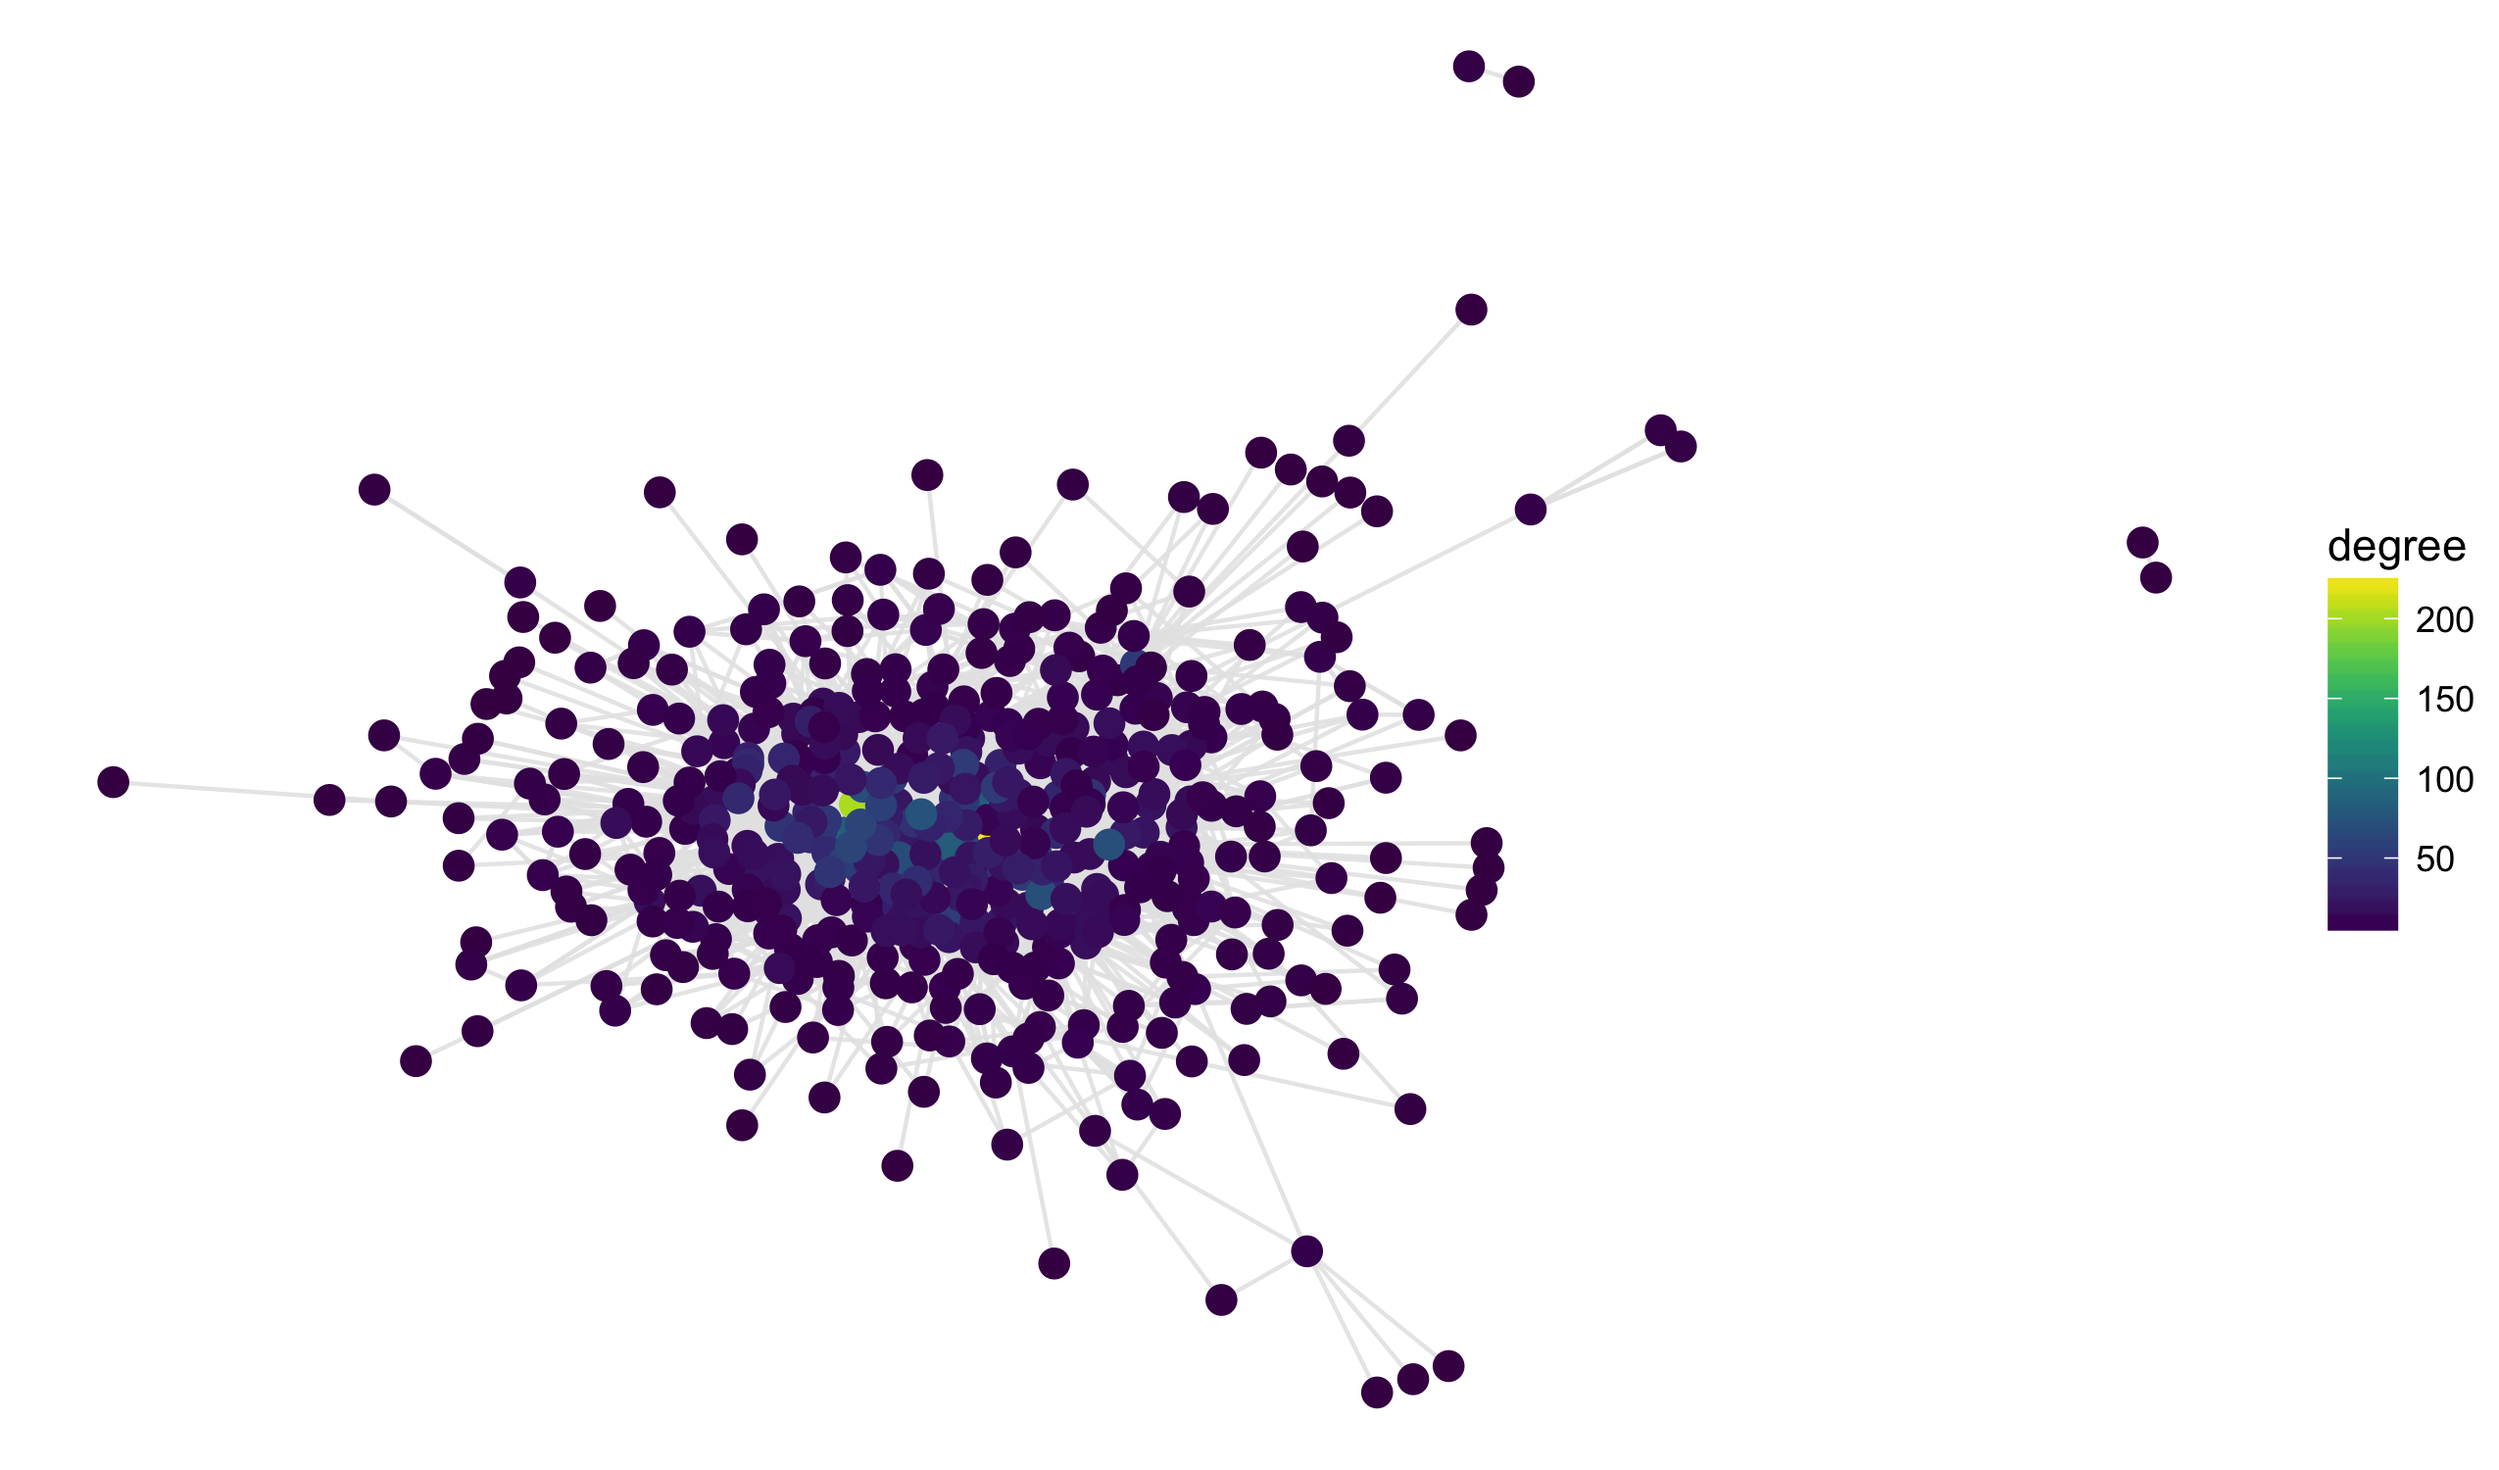
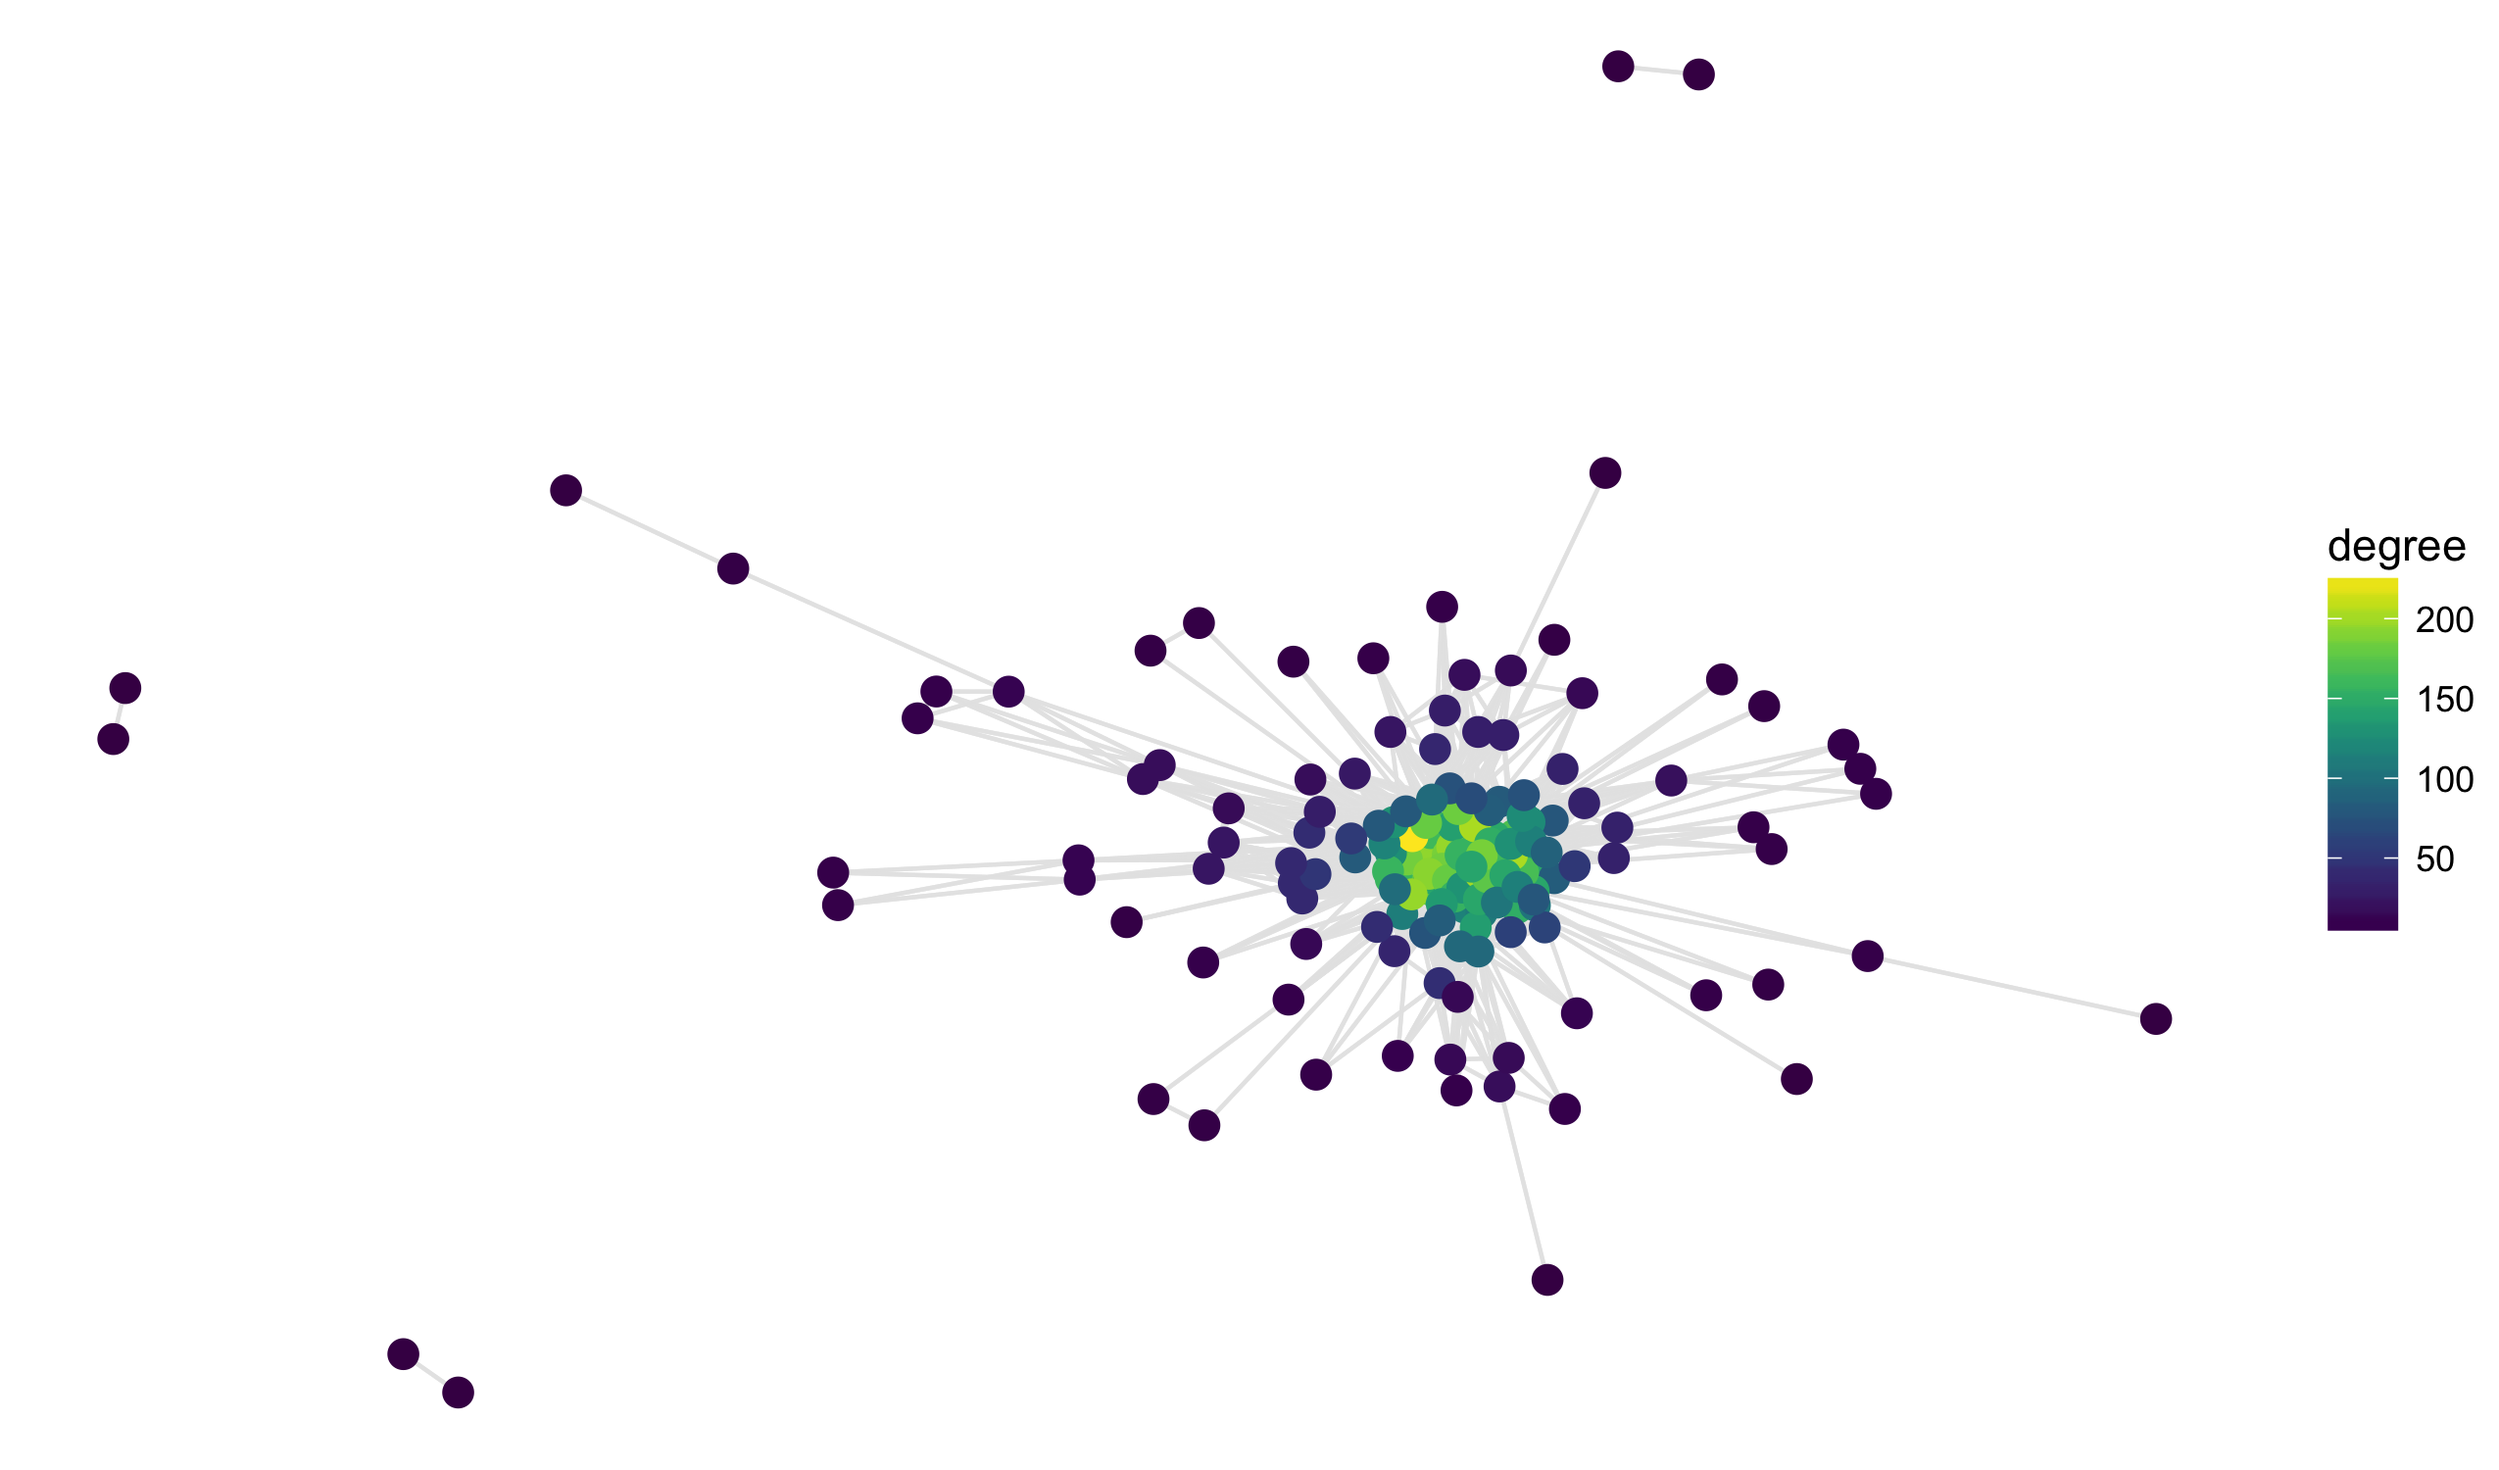
update lab

diff --git a/_posts/2017-11-16-class23.md b/_posts/2017-11-16-class23.md
@@ -13,6 +13,8 @@ library(dplyr)
 library(ggplot2)
 library(viridis)
 library(stringi)
+library(Matrix)
+library(methods)
 {% endhighlight %}
 
 ![](../assets/img/data_pipeline_transform.png)
@@ -660,7 +662,7 @@ write_rds(edges, "../assets/data/wiki_link_edges.rds")
 
 
 This can take a little time, so I included a counter that prints out the progress of the
-algorithm. 
+algorithm.
 
 Notice that many of the links on these 538 pages are to other pages to in our set. On
 average only 6% of the links are in our collection:
@@ -763,7 +765,7 @@ arrange(gr$nodes, desc(eigen))$id[1:25]
 ## [25] "Jamestown,_Virginia"
 {% endhighlight %}
 
-What do you notice about the most central pages? Remember, Richmond is **not** included in 
+What do you notice about the most central pages? Remember, Richmond is **not** included in
 the set, so it is not surprising that it's missing.
 
 Plotting eigenvalue and betweenness scores, we see that VCU and "Geographic Coordinate System"
@@ -969,8 +971,8 @@ The eigenvalue scores are certainly correlated, but not a perfect copy of one an
 {% highlight r %}
 ggplot(nodes, aes(eigen, eigen_co)) +
   geom_point() +
-  geom_abline(slope = 1, intercept = 0) + 
-  theme_minimal() 
+  geom_abline(slope = 1, intercept = 0) +
+  theme_minimal()
 {% endhighlight %}
 
 
@@ -1077,50 +1079,30 @@ library(tokenizers)
 token_list <- tokenize_words(df$text)
 token_df <- term_list_to_df(token_list)
 X <- term_df_to_matrix(token_df, scale = TRUE, min_df = 0.1, max_df = 0.9)
-{% endhighlight %}
-
-
-
-{% highlight text %}
-## Error in validObject(.Object): invalid class "dgTMatrix" object: Not a valid 'Mnumeric' class object
-{% endhighlight %}
-
-
-
-{% highlight r %}
 d <- as.matrix(dist(X))
-{% endhighlight %}
-
-
-
-{% highlight text %}
-## Error in as.matrix(x): object 'X' not found
-{% endhighlight %}
-
-
-
-{% highlight r %}
 d <- data_frame(dist = as.numeric(d),
                 row = as.integer(row(d)),
                 col = as.integer(col(d)))
-{% endhighlight %}
-
-
-
-{% highlight text %}
-## Error in overscope_eval_next(overscope, expr): object 'd' not found
-{% endhighlight %}
-
-
-
-{% highlight r %}
 d
 {% endhighlight %}
 
 
 
 {% highlight text %}
-## Error in eval(expr, envir, enclos): object 'd' not found
+## # A tibble: 46,225 x 3
+##          dist   row   col
+##         <dbl> <int> <int>
+##  1 0.00000000     1     1
+##  2 0.14772701     2     1
+##  3 0.13748189     3     1
+##  4 0.12921302     4     1
+##  5 0.10425901     5     1
+##  6 0.09102865     6     1
+##  7 0.08635729     7     1
+##  8 0.14550444     8     1
+##  9 0.09114820     9     1
+## 10 0.11999107    10     1
+## # ... with 46,215 more rows
 {% endhighlight %}
 
 Then, I'll create an edge list by including only those documents that are a distance
@@ -1129,60 +1111,10 @@ of 45 away from each other (I selected this cut-off by trial and error):
 
 {% highlight r %}
 el <- filter(d, row != col)
-{% endhighlight %}
-
-
-
-{% highlight text %}
-## Error in filter(d, row != col): object 'd' not found
-{% endhighlight %}
-
-
-
-{% highlight r %}
 el <- filter(el, dist < 0.1)
-{% endhighlight %}
-
-
-
-{% highlight text %}
-## Error in UseMethod("filter_"): no applicable method for 'filter_' applied to an object of class "c('matrix', 'character')"
-{% endhighlight %}
-
-
-
-{% highlight r %}
 el <- data_frame(id = df$pages[el$row], id_out = df$pages[el$col])
-{% endhighlight %}
-
-
-
-{% highlight text %}
-## Error in el$row: $ operator is invalid for atomic vectors
-{% endhighlight %}
-
-
-
-{% highlight r %}
 el$id <- stri_sub(el$id, 7, -1)
-{% endhighlight %}
-
-
-
-{% highlight text %}
-## Error in el$id: $ operator is invalid for atomic vectors
-{% endhighlight %}
-
-
-
-{% highlight r %}
 el$id_out <- stri_sub(el$id_out, 7, -1)
-{% endhighlight %}
-
-
-
-{% highlight text %}
-## Error in el$id_out: $ operator is invalid for atomic vectors
 {% endhighlight %}
 
 And you can see that the resulting graph is very centered on a tight clustering of documents:
@@ -1190,17 +1122,7 @@ And you can see that the resulting graph is very centered on a tight clustering 
 
 {% highlight r %}
 gr <- graph_data(el)
-{% endhighlight %}
 
-
-
-{% highlight text %}
-## Error in cbind_all(x): Argument 1 must have names
-{% endhighlight %}
-
-
-
-{% highlight r %}
 ggplot(gr$nodes, aes(x, y, label = id)) +
   geom_segment(aes(xend = xend, yend = yend), data = gr$edges,
                color = grey(0.9), alpha = 0.9) +
@@ -1217,60 +1139,10 @@ to the closest 3 pages:
 
 {% highlight r %}
 el <- filter(d, row != col)
-{% endhighlight %}
-
-
-
-{% highlight text %}
-## Error in filter(d, row != col): object 'd' not found
-{% endhighlight %}
-
-
-
-{% highlight r %}
 el <- filter(group_by(el, row), dist <= sort(dist)[3])
-{% endhighlight %}
-
-
-
-{% highlight text %}
-## Error in UseMethod("group_by_"): no applicable method for 'group_by_' applied to an object of class "c('matrix', 'character')"
-{% endhighlight %}
-
-
-
-{% highlight r %}
 el <- data_frame(id = df$pages[el$row], id_out = df$pages[el$col])
-{% endhighlight %}
-
-
-
-{% highlight text %}
-## Error in el$row: $ operator is invalid for atomic vectors
-{% endhighlight %}
-
-
-
-{% highlight r %}
 el$id <- stri_sub(el$id, 7, -1)
-{% endhighlight %}
-
-
-
-{% highlight text %}
-## Error in el$id: $ operator is invalid for atomic vectors
-{% endhighlight %}
-
-
-
-{% highlight r %}
 el$id_out <- stri_sub(el$id_out, 7, -1)
-{% endhighlight %}
-
-
-
-{% highlight text %}
-## Error in el$id_out: $ operator is invalid for atomic vectors
 {% endhighlight %}
 
 This graph looks quite a bit more interesting and spread out:
@@ -1278,17 +1150,7 @@ This graph looks quite a bit more interesting and spread out:
 
 {% highlight r %}
 gr <- graph_data(el)
-{% endhighlight %}
 
-
-
-{% highlight text %}
-## Error in cbind_all(x): Argument 1 must have names
-{% endhighlight %}
-
-
-
-{% highlight r %}
 ggplot(gr$nodes, aes(x, y, label = id)) +
   geom_segment(aes(xend = xend, yend = yend), data = gr$edges,
                color = grey(0.9), alpha = 0.9) +
@@ -1316,70 +1178,67 @@ split(temp$id, temp$cluster)
 
 {% highlight text %}
 ## $`1`
-## [1] "George_B._McClellan"           "Ulysses_S._Grant"             
-## [3] "Abraham_Lincoln"               "Confederate_States_of_America"
-## [5] "American_Civil_War"           
+## [1] "Integer_(computer_science)" "Longitude"                 
+## [3] "Temperature"                "Level_of_measurement"      
+## [5] "Central_tendency"          
 ## 
 ## $`10`
-## [1] "Science_Museum_of_Virginia"      "Broad_Street_Station_(Richmond)"
-## [3] "Fan_district"                    "Monument_Avenue"                
-## [5] "Neoclassical_architecture"      
+## [1] "UMVUE"                "Consistent_estimator" "Estimator"           
+## [4] "Mean_squared_error"   "Unbiased_estimator"  
 ## 
-## $`14`
-## [1] "Geographic_coordinate_system"   "Virginia_General_Assembly"     
-## [3] "George_Washington"              "President_of_the_United_States"
-## [5] "Thomas_Jefferson"              
+## $`11`
+## [1] "Null_hypothesis"                "Hypothesis_testing"            
+## [3] "Critical_region"                "Statistical_hypothesis_testing"
+## [5] "Test_statistic"                
 ## 
-## $`16`
-## [1] "Minor_League_Baseball"            "Richmond_Braves"                 
-## [3] "San_Francisco_Giants"             "Richmond_Flying_Squirrels"       
-## [5] "The_Diamond_(Richmond,_Virginia)"
-## 
-## $`17`
-## [1] "Bus"                            "Paratransit"                   
-## [3] "Tram"                           "Streetcar"                     
-## [5] "Main_Street_Station_(Richmond)"
+## $`12`
+## [1] "Statistical_model"      "Statistical_theory"    
+## [3] "Bayesian_probability"   "Inferential_statistics"
+## [5] "Statistical_inference" 
 ## 
 ## $`2`
-## [1] "Country_music"                   "Korean_War"                     
-## [3] "Gulf_War"                        "Federal_Bureau_of_Investigation"
-## [5] "Blues"                          
-## 
-## $`23`
-## [1] "Capital_One_Financial_Corporation" "CarMax"                           
-## [3] "Owens_%26_Minor"                   "Dominion_Resources"               
-## [5] "Fortune_500"                      
-## 
-## $`27`
-## [1] "Microbrewery"     "Daniel_Day-Lewis" "ROA_(artist)"    
-## [4] "Hinduism"         "England"         
+## [1] "Blaise_Pascal"         "Karl_Pearson"          "Ronald_Fisher"        
+## [4] "Francis_Galton"        "History_of_statistics"
 ## 
 ## $`3`
-## [1] "National_Football_League"      "American_Broadcasting_Company"
-## [3] "Fox_Broadcasting_Company"      "NBC"                          
-## [5] "Southeastern_United_States"   
+## [1] "Maximum_likelihood"         "Sampling_(statistics)"     
+## [3] "Random_sample"              "Resampling_(statistics)"   
+## [5] "Bootstrapping_(statistics)"
 ## 
-## $`32`
-## [1] "Southside_Speedway"               "Monster_Energy"                  
-## [3] "Denny_Hamlin"                     "Monster_Energy_NASCAR_Cup_Series"
-## [5] "NASCAR"                          
+## $`4`
+## [1] "Neural_networks"       "Forecasting"           "Spatial_data_analysis"
+## [4] "Evolution"             "Census"               
 ## 
 ## $`5`
-## [1] "Chesterfield_County,_Virginia" "James_River_(Virginia)"       
-## [3] "Jamestown,_Virginia"           "Petersburg,_Virginia"         
-## [5] "Virginia"                     
+## [1] "Hawthorne_study"             "Hawthorne_effect"           
+## [3] "Categorical_data"            "Categorical_variable"       
+## [5] "Randomized_controlled_trial"
+## 
+## $`6`
+## [1] "Least_squares"                     
+## [2] "Method_of_least_squares"           
+## [3] "Errors_and_residuals_in_statistics"
+## [4] "Linear_regression"                 
+## [5] "Ordinary_least_squares"            
 ## 
 ## $`7`
-## [1] "Medical_College_of_Virginia"      "VCU"                             
-## [3] "Atlantic_10_Conference"           "University_of_Richmond"          
-## [5] "Virginia_Commonwealth_University"
+## [1] "Social_science"          "Sociology"              
+## [3] "Computational_biology"   "Computational_sociology"
+## [5] "Network_biology"        
+## 
+## $`8`
+## [1] "Biostatistics"                       
+## [2] "Causality"                           
+## [3] "Instrumental_variable"               
+## [4] "Correlation_does_not_imply_causation"
+## [5] "Misuse_of_statistics"                
 ## 
 ## $`9`
-## [1] "Native_Americans_in_the_United_States"
-## [2] "African_American"                     
-## [3] "Southern_United_States"               
-## [4] "Washington,_D.C."                     
-## [5] "United_States"
+## [1] "Random_variable"                     
+## [2] "Independent_identically_distributed" 
+## [3] "Measure-theoretic_probability_theory"
+## [4] "Probability_theory"                  
+## [5] "Probability_interpretations"
 {% endhighlight %}
 
 Changing the cut-off value significantly effects the output of the model. You'll have a chance to experiment
